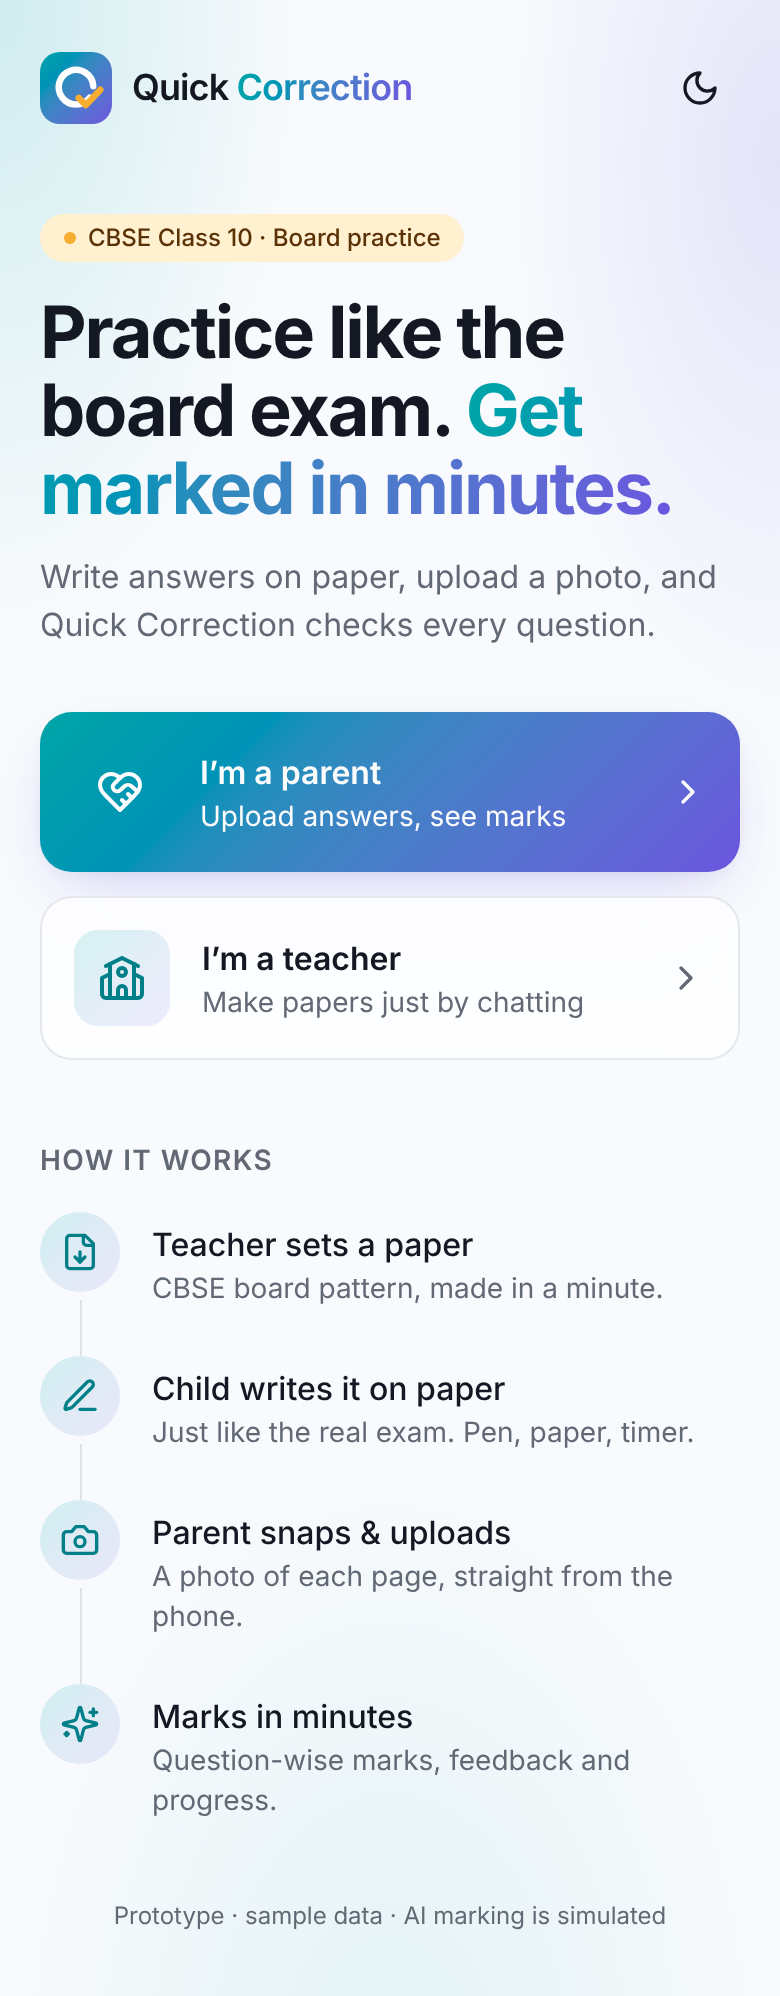
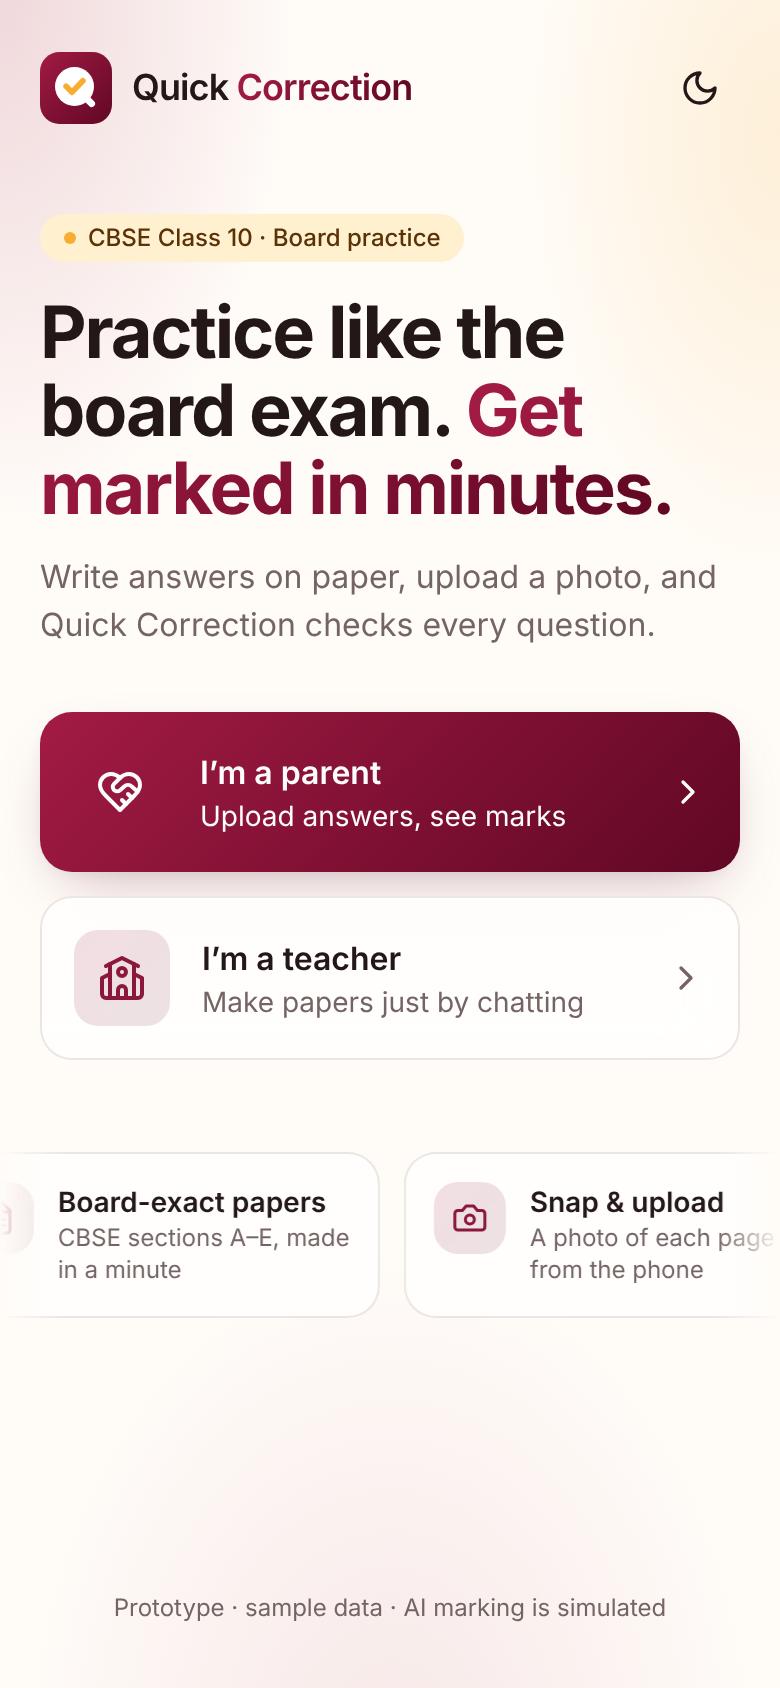
Home: drop How it works; add a moving strip of feature cards
Claude-Session: https://claude.ai/code/session_01Ukf9S3SeSkNRD7pdqf2qXr

diff --git a/src/web/features/demo/pages/index.tsx b/src/web/features/demo/pages/index.tsx
@@ -4,16 +4,19 @@
  */
 import { useNavigate } from 'react-router-dom';
 import { Button, useTheme } from '@bloomneo/uikit';
-import { HeartHandshake, School, ChevronRight, FileDown, PenLine, Camera, Sparkles, Moon, Sun } from 'lucide-react';
+import { HeartHandshake, School, ChevronRight, FileText, Camera, Sparkles, Mic, TrendingUp, BellRing, Moon, Sun } from 'lucide-react';
 import { SEO } from '@/shared/SEO';
 import { LogoMark, Wordmark } from '@/shared/Logo';
 import { useDemo, type Role } from '../data/store';
 
-const STEPS = [
-  { icon: FileDown, title: 'Teacher sets a paper', text: 'CBSE board pattern, made in a minute.' },
-  { icon: PenLine, title: 'Child writes it on paper', text: 'Just like the real exam. Pen, paper, timer.' },
-  { icon: Camera, title: 'Parent snaps & uploads', text: 'A photo of each page, straight from the phone.' },
-  { icon: Sparkles, title: 'Marks in minutes', text: 'Question-wise marks, feedback and progress.' },
+/** Shown as a slowly moving strip of cards under the two doors. */
+const FEATURES = [
+  { icon: FileText, title: 'Board-exact papers', text: 'CBSE sections A–E, made in a minute' },
+  { icon: Camera, title: 'Snap & upload', text: 'A photo of each page from the phone' },
+  { icon: Sparkles, title: 'Marked in minutes', text: 'Question-wise marks and feedback' },
+  { icon: Mic, title: 'Just say it', text: '“40-mark trig test, due Friday”' },
+  { icon: TrendingUp, title: 'Chapter progress', text: 'See exactly what to revise next' },
+  { icon: BellRing, title: 'Teacher in the loop', text: 'Notified the moment answers land' },
 ];
 
 const DOORS: { role: Role; label: string; hint: string; icon: typeof School }[] = [
@@ -91,24 +94,26 @@ export default function Home() {
             ))}
           </section>
 
-          <section className="mt-10" aria-labelledby="how">
-            <h2 id="how" className="text-sm font-semibold uppercase tracking-wider text-muted-foreground">How it works</h2>
-            <ol className="mt-4 space-y-0">
-              {STEPS.map(({ icon: Icon, title, text }, i) => (
-                <li key={title} className="relative flex gap-4 pb-6 last:pb-0">
-                  {i < STEPS.length - 1 && (
-                    <span aria-hidden className="absolute left-5 top-11 h-[calc(100%-2.75rem)] w-px bg-border" />
-                  )}
-                  <span className="mm-tint grid size-10 shrink-0 place-items-center rounded-full text-primary">
-                    <Icon className="size-5" />
-                  </span>
-                  <span className="pt-1">
-                    <span className="block font-medium">{title}</span>
-                    <span className="block text-sm text-muted-foreground">{text}</span>
-                  </span>
-                </li>
+          {/* Moving feature strip. The list is rendered twice so the loop is seamless;
+              the copy is hidden from screen readers. Stops for reduced motion. */}
+          <section className="mm-marquee -mx-5 mt-10" aria-label="What Quick Correction does">
+            <div className="mm-marquee-track">
+              {[0, 1].map((copy) => (
+                <ul key={copy} className="flex shrink-0 gap-3 pr-3" aria-hidden={copy === 1 || undefined}>
+                  {FEATURES.map(({ icon: Icon, title, text }) => (
+                    <li key={title} className="mm-glass flex w-56 shrink-0 items-start gap-3 rounded-2xl p-3.5">
+                      <span className="mm-tint grid size-9 shrink-0 place-items-center rounded-xl text-primary">
+                        <Icon className="size-[18px]" />
+                      </span>
+                      <span className="min-w-0">
+                        <span className="block text-sm font-semibold">{title}</span>
+                        <span className="block text-xs leading-snug text-muted-foreground">{text}</span>
+                      </span>
+                    </li>
+                  ))}
+                </ul>
               ))}
-            </ol>
+            </div>
           </section>
 
           <footer className="mt-auto pt-10 text-center text-xs text-muted-foreground">

diff --git a/src/web/styles/brand.css b/src/web/styles/brand.css
@@ -292,3 +292,23 @@
     0 12px 32px -12px color-mix(in oklch, var(--mm-to) 32%, transparent),
     0 2px 8px -2px rgb(0 0 0 / 0.06);
 }
+
+/* Endless horizontal strip of cards; fades out at both edges. */
+.mm-marquee {
+  overflow: hidden;
+  -webkit-mask-image: linear-gradient(90deg, transparent, #000 8%, #000 92%, transparent);
+  mask-image: linear-gradient(90deg, transparent, #000 8%, #000 92%, transparent);
+}
+.mm-marquee-track {
+  display: flex;
+  width: max-content;
+  padding-block: 6px;
+  animation: mm-marquee 36s linear infinite;
+}
+.mm-marquee:hover .mm-marquee-track { animation-play-state: paused; }
+@keyframes mm-marquee { to { transform: translateX(-50%); } }
+@media (prefers-reduced-motion: reduce) {
+  .mm-marquee { overflow-x: auto; -webkit-mask-image: none; mask-image: none; }
+  .mm-marquee-track { animation: none; }
+  .mm-marquee-track > ul[aria-hidden] { display: none; }
+}
